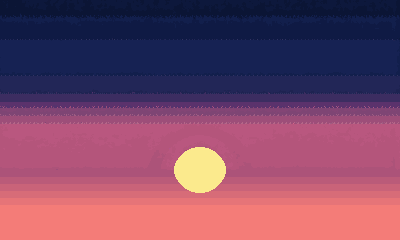
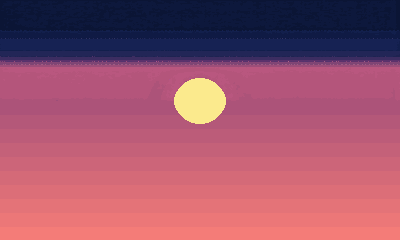
Stage 1 art: the rest of the backdrop, and one horizon to hang it on
Adds the skyline, water and piling plates, so all five layers of "Dawn
Boardwalk" are in and art_preview.tscn shows them stacked behind and in front of
the player.

The plates are placed off a single HORIZON constant in plate pixels rather than
positioned independently: the skyline stands on it, the water starts at it, the
sun clears it. Placed separately they drift apart the moment one is resized.

The sun had to move. At row 169 it sat 70% down the viewport, leaving no room
for a horizon below it, water below that and a deck below that. It is now at row
100, which a re-crop could not do -- the source has 242 rows of sky above the
disc and none below -- so the banded sky above it is squashed 215 rows into 74
with NEAREST, which keeps flat bands flat and merely thins them, while the sun's
own band stays at native scale so the disc keeps its shape.

It also turns out the sun cannot clear the city: at 26 plate px radius with the
horizon 30 px below its centre, a skyline that fits underneath would be three
pixels tall. The draft prompt's "low sun just clear of it" is not achievable at
this sun size, so the ruins cross the disc instead.

Water and pilings are made rather than generated, both after generated attempts
failed in ways worth recording. Asked for water, pixflux draws a lake -- sky,
hills, far shore, boat -- and forcing the sky's palette fixed the colour while
leaving the composition. Still water is the sky mirrored about the waterline, so
[…]

diff --git a/docs/SPRITES.md b/docs/SPRITES.md
@@ -491,9 +491,12 @@ generating stage 2.
 | --- | --- | --- | --- |
 | 1 | boardwalk planks + rail | **done** — `assets/tilesets/dawn_boardwalk/` | tileset `2e44791f-404c-4174-81fe-bc2f6a082215` |
 | 2 | dawn sky + low sun | **done** — `assets/backgrounds/dawn_boardwalk/sky.png` | image `ceaaa4c7-f3a3-46ef-a24c-bf9107204ad2`, seed 10511 |
-| 3–5 | skyline, water, foreground | not started | — |
+| 3 | ruined city skyline | **done** — `skyline.png` | image `356af9de-b93a-4f26-9d78-60ebd284be0e`, seed 10521 |
+| 4 | floodwater | **done** — `water.png` | derived from the sky, no generation |
+| 5 | foreground pilings | **done** — `pilings.png` | image `6702e1f9-b5f9-4f6a-8364-10b9a3ed3b97`, seed 10541 |
 
-Six of the 40 trial generations spent (3 on the tileset, 3 on the sky).
+Twelve of the 40 trial generations spent: 3 on the tileset, 4 on the sky, and 5
+across the other plates — of which two were thrown away, below.
 
 **The mixed-style question from §8 is settled: it works.** `art_preview.tscn`
 lays a boardwalk from the tileset, puts the backdrop behind it and stands the
@@ -634,3 +637,84 @@ the sky's own palette and the deck reads correctly at 4.5x. Worth knowing that
 `lower_description` steers material far less than it steers colour — if stage 2
 needs a specific material, expect to iterate, and remember a tileset is 2–3
 generations a try.
+
+### 8c. The rest of the backdrop, and where the plates go
+
+All five plates are in and `art_preview.tscn` shows them stacked. The parallax
+factors are §8a's; what §8a did not record, and what actually matters when
+assembling them, is **where each plate sits vertically**.
+
+`parallax_background.gd` hangs the whole backdrop off one constant, `HORIZON`,
+in plate pixels from the top of the viewport. The skyline stands on it, the
+water starts at it, the sun clears it. Change that number and the backdrop stays
+coherent; place the plates independently and it will not.
+
+| Plate | Size | Scroll | Top |
+| --- | --- | --- | --- |
+| sky | 400x240 | 0.05 | 0 |
+| skyline | 220x40 | 0.2 | `HORIZON` − 40 |
+| water | 400x120 | 0.4 | `HORIZON` |
+| pilings | 400x84 | 1.2 | 156, i.e. flush with the bottom |
+
+Vertical scroll is 0 on every plate: the backdrop is placed against the
+viewport, not the world, so it must not drift when the camera rises or the
+horizon walks off the top of the screen. The pilings are the only plate with a
+positive `z_index` — everything else is behind the player, they are in front.
+
+#### The sun had to move, and moving it cost the sky its band spacing
+
+§8b put the sun at plate row 169. That is 70% of the way down the viewport, and
+it left no room: the horizon has to sit below the sun, the water below that, and
+the deck below that, all inside the remaining 30%. The sun is 234 screen pixels
+across, which is simply large relative to the scene.
+
+It now sits at row 100. Getting it there could not be done by re-cropping,
+because the source has only 242 rows of sky *above* the sun and none below.
+Instead the banded sky above the disc is squashed 215 rows into 74 with NEAREST
+— flat bands stay flat under nearest-neighbour, they just get thinner — while
+the sun's own 27-row band is kept at native scale so the disc keeps its shape.
+The banding is tighter than the source's as a result. It reads as haze.
+
+**The sun cannot clear the city.** With the disc 26 plate px in radius and the
+horizon 30 px below its centre, a skyline that fits under it would be about
+three pixels tall. The draft prompt's "low sun just clear of it" is not
+achievable at this sun size, so the city crosses the disc instead — which is the
+more familiar image anyway, and looks deliberate.
+
+#### Two plates that had to be made rather than generated
+
+**Water.** Generated twice and discarded twice. Asked for a water surface,
+pixflux drew a lake — sky, hills, a far shore and a boat — in a pale blue
+nothing like the dawn palette. Forcing the sky's own palette with
+`color_image_url` (which does work: point it at any completed job's no-auth
+download URL) fixed the colour and left the composition: still a lake, now a
+warm one, with most of the frame collapsed onto the sun's yellow.
+
+The plate that shipped is derived instead: **still water is the sky mirrored
+about the waterline**, so it is exactly that, darkened and cooled with depth,
+with the mirrored sun broken into a glitter path and some debris added. It costs
+no generations and it cannot drift out of palette with the sky, because it *is*
+the sky. A separately generated plate can and did.
+
+**Pilings.** Asked for railing posts with gaps between them, pixflux returned a
+picket fence at 100% alpha coverage — no transparency anywhere, which as a
+foreground plate would have walled the player off completely. `no_background`
+does not create gaps in a subject that fills its frame. What shipped is a single
+generated piling composited into a plate at chosen positions, which is also the
+only way to control the spacing. It is darkened to 45% and pulled toward the
+water's blue: a foreground element that competes with the player for attention
+is worse than no foreground element.
+
+#### Making distance read
+
+Two adjustments did more for depth than any prompt:
+
+- **Scale both axes.** The skyline was generated 400x100 and is used at 220x40.
+  Squashing only the height would have given stubby towers at the same apparent
+  distance; scaling both makes them far away.
+- **Haze by brightness.** Every skyline pixel is blended toward the sky colour
+  behind it, by an amount that rises with its own luminance. The pale back rank
+  the generator drew recedes into the sky, the dark front rank stays solid, and
+  the speckled window detail stops reading as noise.
+
+Neither is a PixelLab feature. Both are a few lines over the returned PNG.
